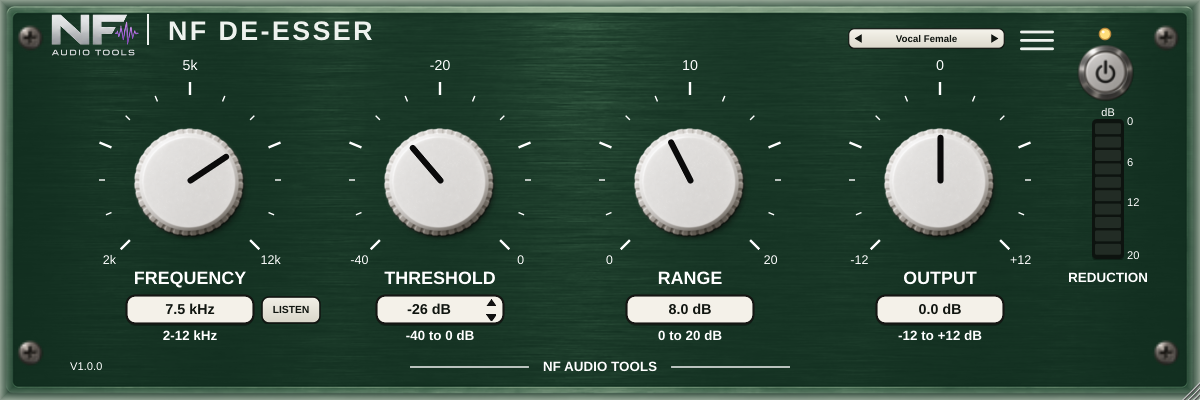
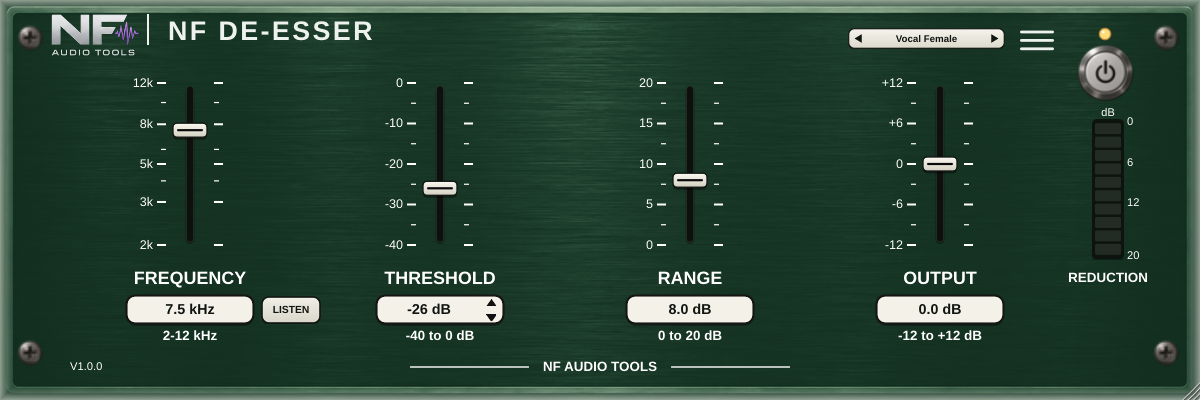
Vertical faders instead of knobs
Claude-Session: https://claude.ai/code/session_01EbhKLRF1YXDywKjGvwZhBR

diff --git a/Source/PluginEditor.cpp b/Source/PluginEditor.cpp
@@ -13,7 +13,7 @@ juce::Image readyAsset(const char* data, int size) { return juce::ImageCache::ge
 constexpr float kKnobY = 180.0f;
 // Four knobs evenly spaced (250 apart); the vertical reduction meter sits under the Power button (same centre X).
 constexpr float kFreqX = 190.0f, kThresholdX = 440.0f, kRangeX = 690.0f, kOutputX = 940.0f, kMeterX = 1108.0f;
-constexpr float kKnobBox = 145.0f;
+constexpr float kFaderW = 56.0f, kFaderY = 76.0f, kFaderH = 176.0f;   // vertical fader box (base units)
 
 juce::String formatOut(double v){ auto s=juce::String(v,1); if(v>0.05) s="+"+s; else if(v>-0.05) s="0.0"; return s+" dB"; }
 juce::String formatDb(double v){ return juce::String(juce::roundToInt(v))+" dB"; }
@@ -58,10 +58,11 @@ NFDeEsserAudioProcessorEditor::NFDeEsserAudioProcessorEditor(NFDeEsserAudioProce
     struct K{ juce::Slider* s; double def; };
     for(auto k:{K{&freqKnob,6500.0},K{&thresholdKnob,-20.0},K{&rangeKnob,8.0},K{&outputKnob,0.0}}){
         addAndMakeVisible(*k.s);
-        k.s->setSliderStyle(juce::Slider::RotaryHorizontalVerticalDrag);
-        // Same 270-degree sweep as the tick marks drawn in drawScale().
-        k.s->setRotaryParameters(juce::MathConstants<float>::pi*1.25f, juce::MathConstants<float>::pi*2.75f, true);
+        k.s->setComponentID("fader");
+        k.s->setSliderStyle(juce::Slider::LinearVertical);   // vertical faders (like the de-essers people know), same controls
         k.s->setTextBoxStyle(juce::Slider::NoTextBox,false,0,0);
+        k.s->setSliderSnapsToMousePosition(true);
+        k.s->setScrollWheelEnabled(true);
         k.s->setDoubleClickReturnValue(true,k.def);
     }
     for(auto* c:{&freqCap,&thresholdCap,&rangeCap,&outputCap}) addAndMakeVisible(*c);
@@ -201,6 +202,24 @@ void NFDeEsserAudioProcessorEditor::drawScale(juce::Graphics& g,juce::Point<floa
     }
 }
 
+// Marks on both sides of a vertical fader, numbers on the left. Positions come from the slider itself so they always line up with the thumb.
+void NFDeEsserAudioProcessorEditor::drawFaderScale(juce::Graphics& g,juce::Slider& fader,float cx,const std::vector<FaderTick>& ticks)
+{
+    g.setColour(juce::Colours::white);
+    for (const auto& t : ticks)
+    {
+        const float y = ((float) fader.getY() + (float) fader.getPositionOfValue(t.value) - offsetY) / layoutScale;
+        const float len = t.major ? 9.0f : 5.0f, th = t.major ? 2.0f : 1.2f;
+        g.drawLine(cx - 24.0f - len, y, cx - 24.0f, y, th);
+        g.drawLine(cx + 24.0f, y, cx + 24.0f + len, y, th);
+        if (t.label.isNotEmpty())
+        {
+            g.setFont(juce::Font(juce::FontOptions(14.0f)));
+            g.drawText(t.label, juce::Rectangle<float>(cx - 24.0f - len - 46.0f, y - 9.0f, 42.0f, 18.0f), juce::Justification::centredRight);
+        }
+    }
+}
+
 void NFDeEsserAudioProcessorEditor::paint(juce::Graphics& g)
 {
     g.fillAll(juce::Colour(0xff0a1b11));
@@ -229,10 +248,10 @@ void NFDeEsserAudioProcessorEditor::paint(juce::Graphics& g)
         std::vector<Tick> t; for(int i=0;i<=12;++i) t.push_back({-135.0f+i*22.5f, {}, i%3==0, 14.0f});
         t[0].label=lo; t[6].label=mid; t[12].label=hi; t[6].fontSize=16.0f; return t;
     };
-    drawScale(g,{kFreqX,kKnobY},continuous("2k","5k","12k"));
-    drawScale(g,{kThresholdX,kKnobY},continuous("-40","-20","0"));
-    drawScale(g,{kRangeX,kKnobY},continuous("0","10","20"));
-    drawScale(g,{kOutputX,kKnobY},continuous("-12","0","+12"));
+    drawFaderScale(g,freqKnob,kFreqX,{{2000,"2k",true},{3000,"3k",true},{4000,{},false},{5000,"5k",true},{6000,{},false},{8000,"8k",true},{10000,{},false},{12000,"12k",true}});
+    {   std::vector<FaderTick> t; for(int v=-40; v<=0; v+=5) t.push_back({(double)v, v%10==0 ? juce::String(v) : juce::String(), v%10==0}); drawFaderScale(g,thresholdKnob,kThresholdX,t); }
+    {   std::vector<FaderTick> t; for(double v=0; v<=20.001; v+=2.5) { const bool maj = std::fmod(v,5.0) < 0.01; t.push_back({v, maj ? juce::String((int)v) : juce::String(), maj}); } drawFaderScale(g,rangeKnob,kRangeX,t); }
+    {   std::vector<FaderTick> t; for(int v=-12; v<=12; v+=3) { const bool maj = v%6==0; t.push_back({(double)v, maj ? (v>0?"+"+juce::String(v):juce::String(v)) : juce::String(), maj}); } drawFaderScale(g,outputKnob,kOutputX,t); }
 
     g.setColour(juce::Colours::white);g.setFont(juce::Font(juce::FontOptions(20.0f,juce::Font::bold)));
     const std::pair<float,const char*> names[]={{kFreqX,"FREQUENCY"},{kThresholdX,"THRESHOLD"},{kRangeX,"RANGE"},{kOutputX,"OUTPUT"}};
@@ -274,7 +293,7 @@ void NFDeEsserAudioProcessorEditor::resized()
 
     auto layoutBand = [&](juce::Slider& knob, ValueCapsule& cap, float cx)
     {
-        knob.setBounds(scaleBounds({cx-kKnobBox*0.5f, kKnobY-kKnobBox*0.5f, kKnobBox, kKnobBox}));
+        knob.setBounds(scaleBounds({cx-kFaderW*0.5f, kFaderY, kFaderW, kFaderH}));
         cap.setBounds(scaleBounds({cx-65.0f, 294.0f, 130.0f, 54.0f}));
     };
     layoutBand(freqKnob,freqCap,kFreqX);layoutBand(thresholdKnob,thresholdCap,kThresholdX);
@@ -284,11 +303,11 @@ void NFDeEsserAudioProcessorEditor::resized()
     power.setBounds(scaleBounds({1075.0f, 43.0f, 66.0f, 66.0f}));
     // Bar (27px into the 80px box) is centred on the Power button's X.
     grMeter.setBounds(scaleBounds({kMeterX-27.0f, 106.0f, 80.0f, 154.0f}));
-    outputBubble.setBounds(scaleBounds({kOutputX-38.0f, 202.0f, 76.0f, 24.0f}));
+    outputBubble.setBounds(scaleBounds({kOutputX+44.0f, 150.0f, 76.0f, 24.0f}));
     logoButton.setBounds(scaleBounds({42.0f, 3.0f, 108.0f, 62.0f}));
-    freqBubble.setBounds(scaleBounds({kFreqX-38.0f, 202.0f, 76.0f, 24.0f}));
-    thresholdBubble.setBounds(scaleBounds({kThresholdX-38.0f, 202.0f, 76.0f, 24.0f}));
-    rangeBubble.setBounds(scaleBounds({kRangeX-38.0f, 202.0f, 76.0f, 24.0f}));
+    freqBubble.setBounds(scaleBounds({kFreqX+44.0f, 150.0f, 76.0f, 24.0f}));
+    thresholdBubble.setBounds(scaleBounds({kThresholdX+44.0f, 150.0f, 76.0f, 24.0f}));
+    rangeBubble.setBounds(scaleBounds({kRangeX+44.0f, 150.0f, 76.0f, 24.0f}));
     menuButton.setBounds(scaleBounds({1020.0f, 25.0f, 34.0f, 28.0f}));
     presetBar.setBounds(scaleBounds({848.0f, 28.0f, 157.0f, 21.0f}));
 }

diff --git a/Source/UI/NFDeEsserLookAndFeel.cpp b/Source/UI/NFDeEsserLookAndFeel.cpp
@@ -52,48 +52,46 @@ void NFDeEsserLookAndFeel::drawRotarySlider(juce::Graphics& g,int x,int y,int w,
     }
 }
 
+// The vertical faders (component id "fader"): the thumb travel margin scales with the component so the scale marks drawn by the editor line up.
+int NFDeEsserLookAndFeel::getSliderThumbRadius(juce::Slider& slider)
+{
+    if (slider.getComponentID() == "fader") return juce::roundToInt((float) slider.getWidth() * 0.12f);
+    return juce::LookAndFeel_V4::getSliderThumbRadius(slider);
+}
+
 void NFDeEsserLookAndFeel::drawLinearSlider(juce::Graphics& g,int x,int y,int width,int height,float sliderPos,float,float,juce::Slider::SliderStyle style,juce::Slider& slider)
 {
-    if (slider.getComponentID() != "outputSlider" || style != juce::Slider::LinearVertical)
+    if (slider.getComponentID() != "fader" || style != juce::Slider::LinearVertical)
     {
         juce::LookAndFeel_V4::drawLinearSlider(g,x,y,width,height,sliderPos,0.0f,0.0f,style,slider);
         return;
     }
 
     juce::Graphics::ScopedSaveState state(g);
-
-    // This component's own bounds already carry the current uiScale (set via
-    // PluginEditor::scaleBounds from the 50x110 base box), so a local factor derived
-    // from the actual width keeps every hand-drawn dimension below proportionally
-    // correct at any window size, exactly like the knob indicator does.
-    const float s = (float)width / 50.0f;
-
+    const float s = (float)width / 56.0f;   // the component is 56 base units wide
     const float centreX = (float)x + (float)width*0.5f;
-    const float trackTop = (float)y + 5.0f*s;
-    const float trackBottom = (float)y + (float)height - 5.0f*s;
+    const float trackTop = (float)y + 3.0f*s;
+    const float trackBottom = (float)y + (float)height - 3.0f*s;
 
-    // Track: matte black, rounded, with a subtle inner shadow -- no colour, no numbers.
-    g.setColour(juce::Colour(0x50000000));
-    g.fillRoundedRectangle(centreX-3.0f*s, trackTop+2.0f*s, 6.0f*s, trackBottom-trackTop, 3.0f*s);
-    g.setColour(juce::Colour(0xff101311));
-    g.fillRoundedRectangle(centreX-2.0f*s, trackTop, 4.0f*s, trackBottom-trackTop, 2.0f*s);
+    // Groove: matte black, rounded, with a soft shadow.
+    g.setColour(juce::Colour(0x55000000));
+    g.fillRoundedRectangle(centreX-4.5f*s, trackTop+2.0f*s, 9.0f*s, trackBottom-trackTop, 4.5f*s);
+    g.setColour(juce::Colour(0xff0d110e));
+    g.fillRoundedRectangle(centreX-3.5f*s, trackTop, 7.0f*s, trackBottom-trackTop, 3.5f*s);
+    g.setColour(juce::Colour(0xff2a302b));
+    g.drawRoundedRectangle(centreX-3.5f*s, trackTop, 7.0f*s, trackBottom-trackTop, 3.5f*s, 0.8f*s);
 
-    // Thumb: horizontal, black-metal, thin silver outline, discreet relief.
-    juce::Rectangle<float> thumb(centreX-12.0f*s, sliderPos-4.0f*s, 24.0f*s, 8.0f*s);
-    g.setColour(juce::Colour(0x50000000));
-    g.fillRoundedRectangle(thumb.translated(0.0f,2.0f*s), 2.0f*s);
-    juce::ColourGradient thumbGradient(juce::Colour(0xff343735), thumb.getCentreX(), thumb.getY(),
-                                         juce::Colour(0xff0b0d0c), thumb.getCentreX(), thumb.getBottom(), false);
-    g.setGradientFill(thumbGradient);
-    g.fillRoundedRectangle(thumb, 2.0f*s);
-
-    // Soft whitish sheen across the upper portion, like a brushed-metal highlight.
-    auto sheen = thumb.reduced(1.2f*s).removeFromTop(thumb.getHeight()*0.4f);
-    g.setColour(juce::Colours::white.withAlpha(0.28f));
-    g.fillRoundedRectangle(sheen, 1.4f*s);
-
-    g.setColour(juce::Colour(0xff777b78));
-    g.drawRoundedRectangle(thumb, 2.0f*s, 0.8f*s);
+    // Thumb: cream-white like the knobs, black centre line, thin dark outline.
+    juce::Rectangle<float> thumb(centreX-17.0f*s, sliderPos-7.0f*s, 34.0f*s, 14.0f*s);
+    g.setColour(juce::Colour(0x60000000));
+    g.fillRoundedRectangle(thumb.translated(0.0f,2.5f*s), 4.0f*s);
+    g.setGradientFill(juce::ColourGradient(juce::Colour(0xfffaf8f0), thumb.getCentreX(), thumb.getY(),
+                                           juce::Colour(0xffd3d0c2), thumb.getCentreX(), thumb.getBottom(), false));
+    g.fillRoundedRectangle(thumb, 4.0f*s);
+    g.setColour(juce::Colour(0xff111511));
+    g.drawRoundedRectangle(thumb, 4.0f*s, 1.3f*s);
+    g.setColour(juce::Colour(0xff0a0a0a));
+    g.fillRoundedRectangle(thumb.getX()+4.0f*s, thumb.getCentreY()-1.1f*s, thumb.getWidth()-8.0f*s, 2.2f*s, 1.1f*s);
 }
 
 void NFDeEsserLookAndFeel::drawScrew(juce::Graphics& g, juce::Rectangle<float> bounds)

diff --git a/Source/PluginEditor.h b/Source/PluginEditor.h
@@ -194,6 +194,8 @@ public:
 private:
     struct Tick { float deg; juce::String label; bool major; float fontSize; float labelOffset = 29.0f; };
     void drawScale(juce::Graphics&,juce::Point<float> centre,const std::vector<Tick>&);
+    struct FaderTick { double value; juce::String label; bool major; };
+    void drawFaderScale(juce::Graphics&,juce::Slider&,float centreX,const std::vector<FaderTick>&);
     juce::Rectangle<int> scaleBounds(juce::Rectangle<float> baseBounds) const;
     // the preset name lives in the plug-in state; refresh the tab whenever it changes (may come from a non-message thread)
     void valueTreePropertyChanged(juce::ValueTree&, const juce::Identifier& id) override { if (id.toString() == "presetName") triggerAsyncUpdate(); }

diff --git a/Source/UI/NFDeEsserLookAndFeel.h b/Source/UI/NFDeEsserLookAndFeel.h
@@ -7,6 +7,7 @@ public:
     NFDeEsserLookAndFeel();
     void drawRotarySlider(juce::Graphics&,int,int,int,int,float,float,float,juce::Slider&) override;
     void drawLinearSlider(juce::Graphics&,int,int,int,int,float,float,float,juce::Slider::SliderStyle,juce::Slider&) override;
+    int getSliderThumbRadius(juce::Slider&) override;
     juce::Label* createSliderTextBox(juce::Slider&) override;
     void drawButtonBackground(juce::Graphics&,juce::Button&,const juce::Colour&,bool,bool) override;
 

diff --git a/CLAUDE.md b/CLAUDE.md
@@ -28,7 +28,7 @@ After a bump, grep for the old version to catch anything missed:
 - Presets: `.nfdeesserpreset` in `Documents/NF Audio Tools/NF De-Esser/Presets`; 11 factory presets in `Source/FactoryPresets.h`.
 
 ## Design notes
-- UI is a fixed 1200x400 layout scaled uniformly; keep the approved look (do not add controls unasked).
+- UI is a fixed 1200x400 layout scaled uniformly; keep the approved look (do not add controls unasked). Owner's design: the four controls are VERTICAL FADERS (component id "fader", cream thumb) instead of knobs; scale marks are drawn from `Slider::getPositionOfValue` so they always line up.
 - DSP is JUCE-free in `Source/DSP/DeEsser.h` and covered by `Tests/DeEsserTests.cpp`.
 - Split-band: a band-pass (Q 1.4) at Frequency is both the detector (stereo-linked peak envelope, 0.4 ms attack / 40 ms release) and the
   part that is turned down: `y = x + (g-1) * band`. Soft knee 6 dB, effective ratio 4:1, reduction never above Range. Listen outputs the band.

diff --git a/README.md b/README.md
@@ -2,7 +2,7 @@
 
 Simple split-band de-esser by **NF Audio Tools** (Nenno Fernando) for vocals, drums and mixes. VST3, AU (macOS) and AAX (Pro Tools).
 
-Controls: **Frequency** (2-12 kHz: where the sibilance lives), **Threshold** (-40..0 dB), **Range** (0..20 dB: the most it will ever turn the
+Four vertical faders (like the classic de-essers): **Frequency** (2-12 kHz: where the sibilance lives), **Threshold** (-40..0 dB), **Range** (0..20 dB: the most it will ever turn the
 band down), **Output** (-12..+12 dB), a **Listen** button (plays only the band the de-esser hears, to find the "s"), a **Reduction** meter,
 Power and 11 factory presets (male / female / rock / pop / podcast / heavy voice, acoustic guitar, hi-hat, overheads, mix bus, master) plus save/load.
 
